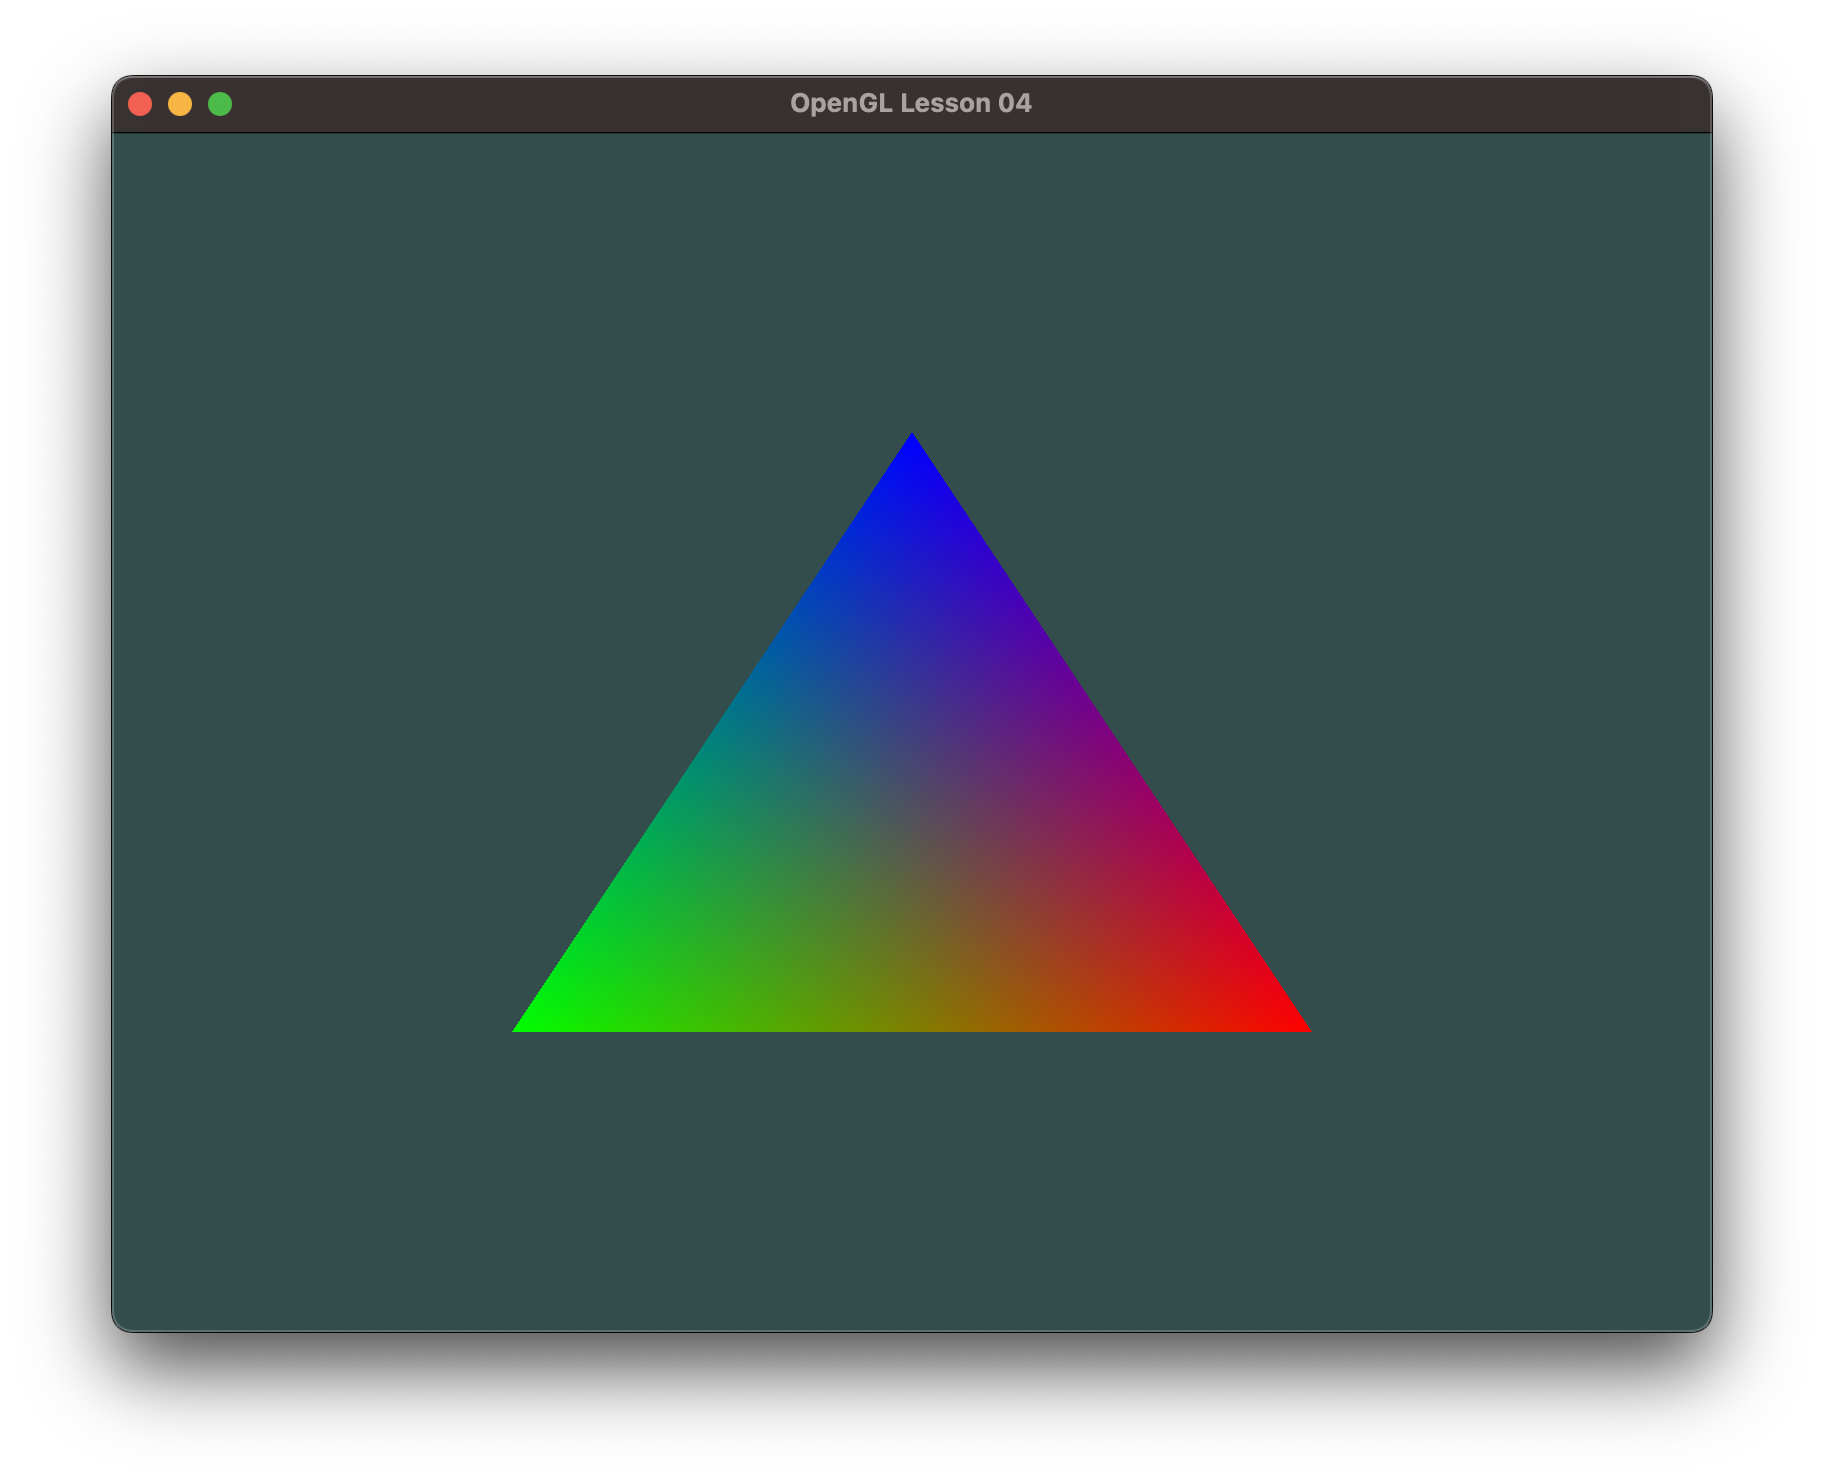
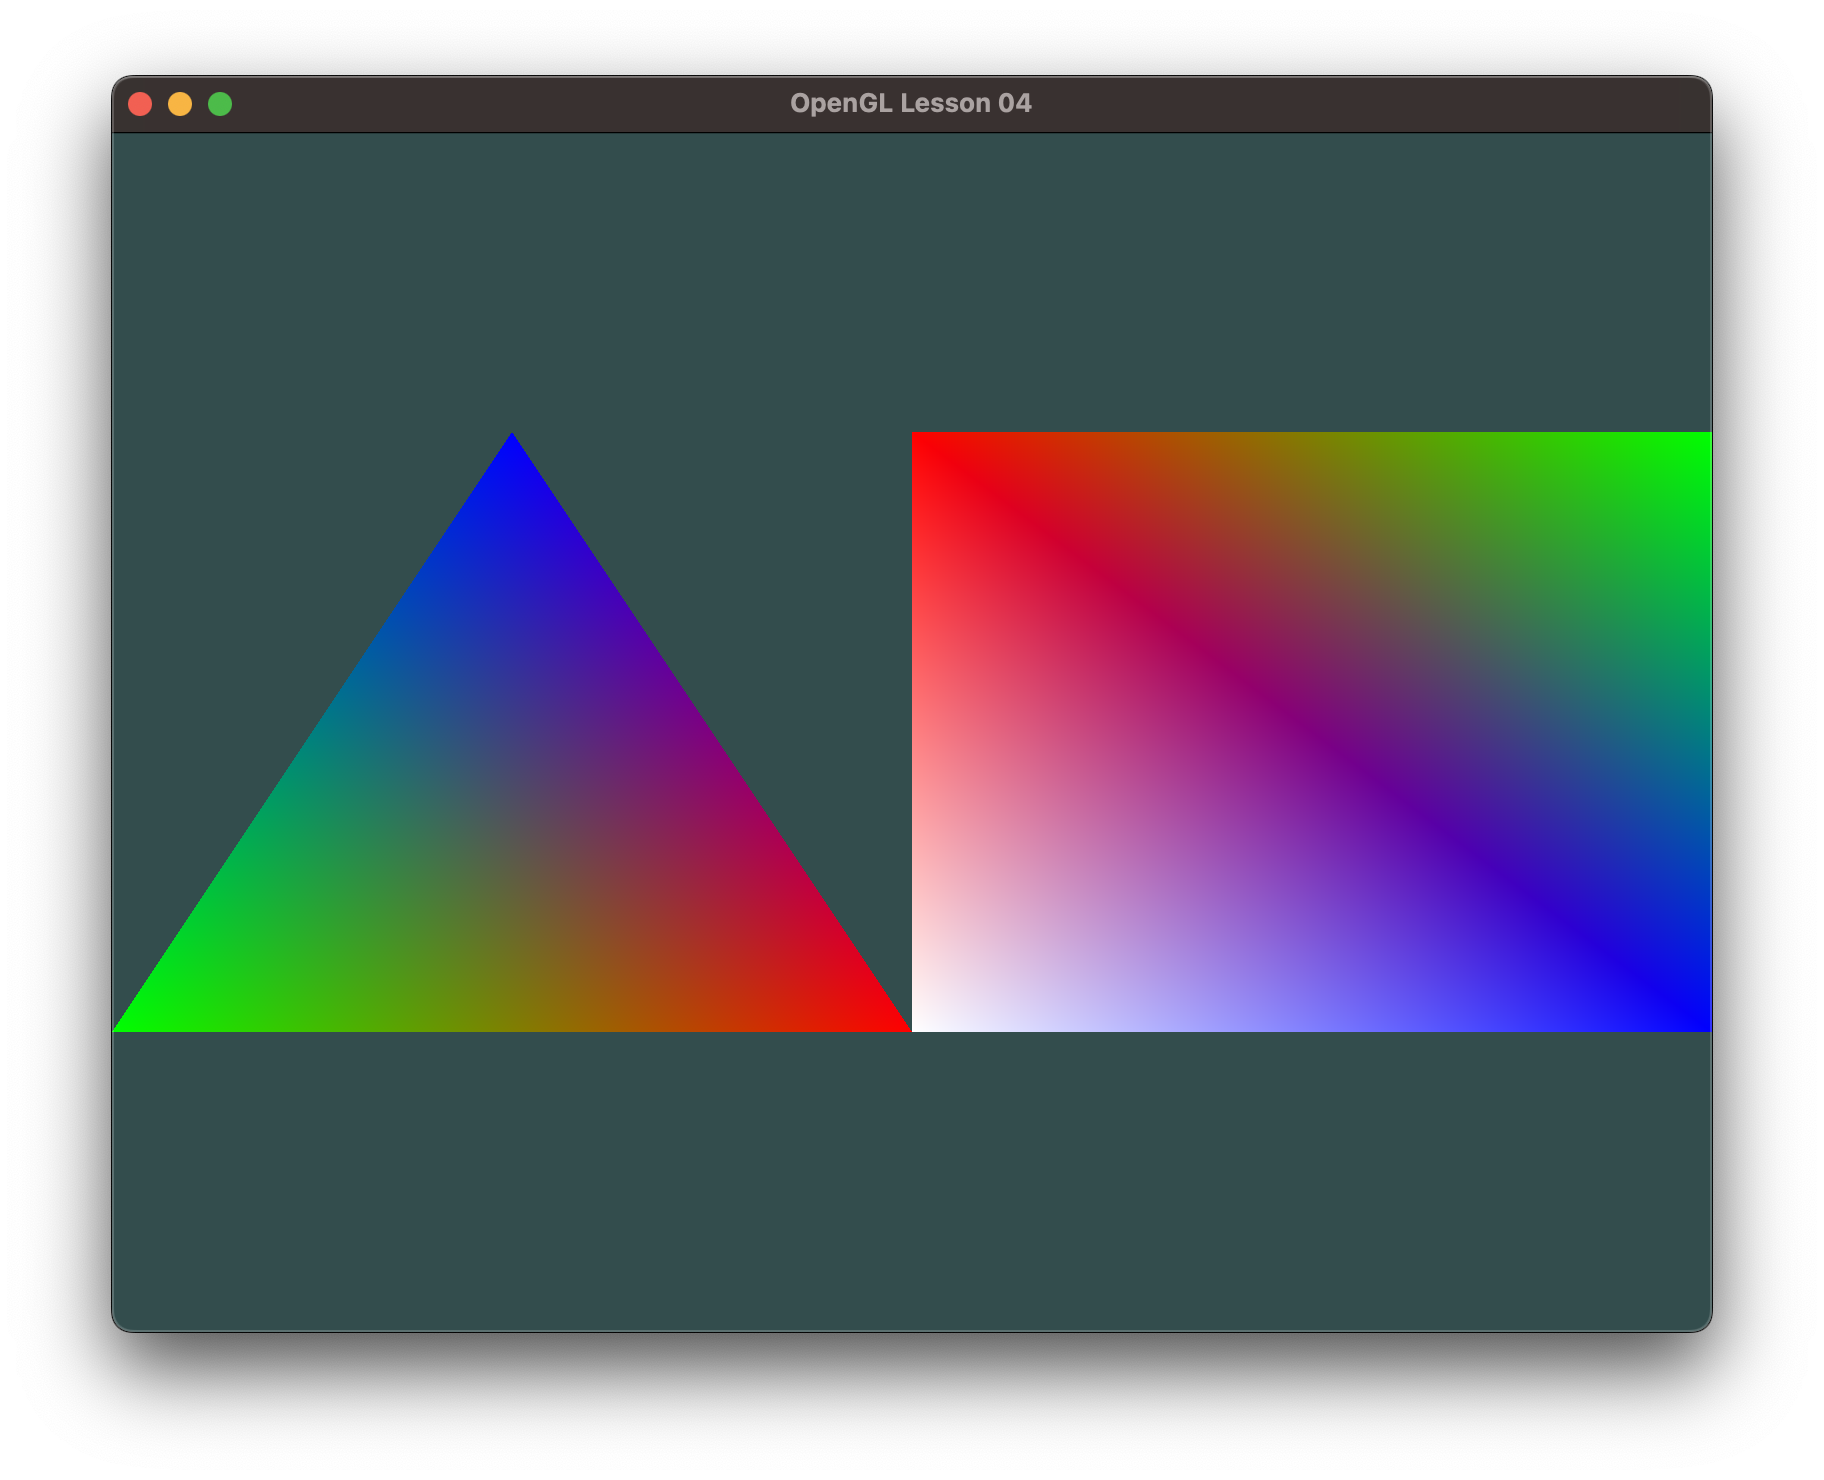
add lesson 04

Changed region(s): [[0.0625, 0.2797, 0.9375, 0.7149]]

diff --git a/_posts/graphics/2023-01-08-opengl-vertex.md b/_posts/graphics/2023-01-08-opengl-vertex.md
@@ -1,0 +1,96 @@
+---
+layout: post
+title: "OpenGL自定义vertex"
+date: 2023-01-07
+categories: Graphics
+tags: OpenGL
+excerpt: vertex不止坐标
+---
+
+* content
+{:toc}
+
+## vertex自定义
+
+将颜色数值也放入vertex中
+
+```cpp
+float triangle_vertices[] = {
+    // positions         // colors
+      0.0f, -0.5f, 0.0f,  1.0f, 0.0f, 0.0f,   // bottom right
+    -1.0f, -0.5f, 0.0f,  0.0f, 1.0f, 0.0f,   // bottom left
+    -0.5f,  0.5f, 0.0f,  0.0f, 0.0f, 1.0f    // top
+};
+```
+
+## vertex shader
+
+定义两个输入属性`aPos`和`aColor`，`location`下标分别为1，2
+定义一个输出属性`ourColor`
+
+```cpp
+#version 330 core
+layout (location = 0) in vec3 aPos;   // the position variable has attribute position 0
+layout (location = 1) in vec3 aColor; // the color variable has attribute position 1
+  
+out vec3 ourColor; // output a color to the fragment shader
+
+void main()
+{
+    gl_Position = vec4(aPos, 1.0);
+    ourColor = aColor; // set ourColor to the input color we got from the vertex data
+} 
+```
+
+![输入数据布局]({{site.static}}/images/opengl-vetex-layout.png)
+
+设置vertex attribute， 注意第一个参数location下标的使用， 最后一个参数起始offset
+
+```cpp
+// position attribute
+glVertexAttribPointer(0, 3, GL_FLOAT, GL_FALSE, 6 * sizeof(float), (void*)0);
+glEnableVertexAttribArray(0);
+// color attribute
+glVertexAttribPointer(1, 3, GL_FLOAT, GL_FALSE, 6 * sizeof(float), (void*)(3* sizeof(float)));
+glEnableVertexAttribArray(1);
+```
+
+## fragment shader
+
+使用vertex shader传递的属性`ourColor`, 作为输出颜色
+
+```cpp
+#version 330 core
+out vec4 FragColor;  
+in vec3 ourColor;
+  
+void main()
+{
+    FragColor = vec4(ourColor, 1.0);
+}
+```
+
+fragment shader具有插值(interpolation)功能，通常在栅格化(rasterization)过程, fragment shader会比vertex shader指定更多的fragment， 所以根据位置会将所有当前位置的fragment颜色做插值处理。插值之后两种颜色之间会有个渐变过程
+
+## 多个VAO
+
+VAO对VBO, EBO是引用，所以多个VAO就要创建多个对应的VBO，VEO。
+
+![VAO]({{site.static}}/images/oepngl-vao-vbo-ebo.png)
+
+```cpp
+GLuint VAO[2], VBO[2], EBO;
+glGenVertexArrays(2, VAO);
+glGenBuffers(2, VBO);
+glGenBuffers(1, &EBO);
+
+glDeleteVertexArrays(2, VAO);
+glDeleteBuffers(2, VBO);
+glDeleteBuffers(1, &EBO);
+```
+
+## 绘制图形
+
+![结果]({{site.static}}/images/opengl-lesson-04-result.png)
+
+[代码](https://github.com/geemaple/learning/blob/main/learn_opengl/learn_opengl/lesson/lesson_04_vertex.cpp)
